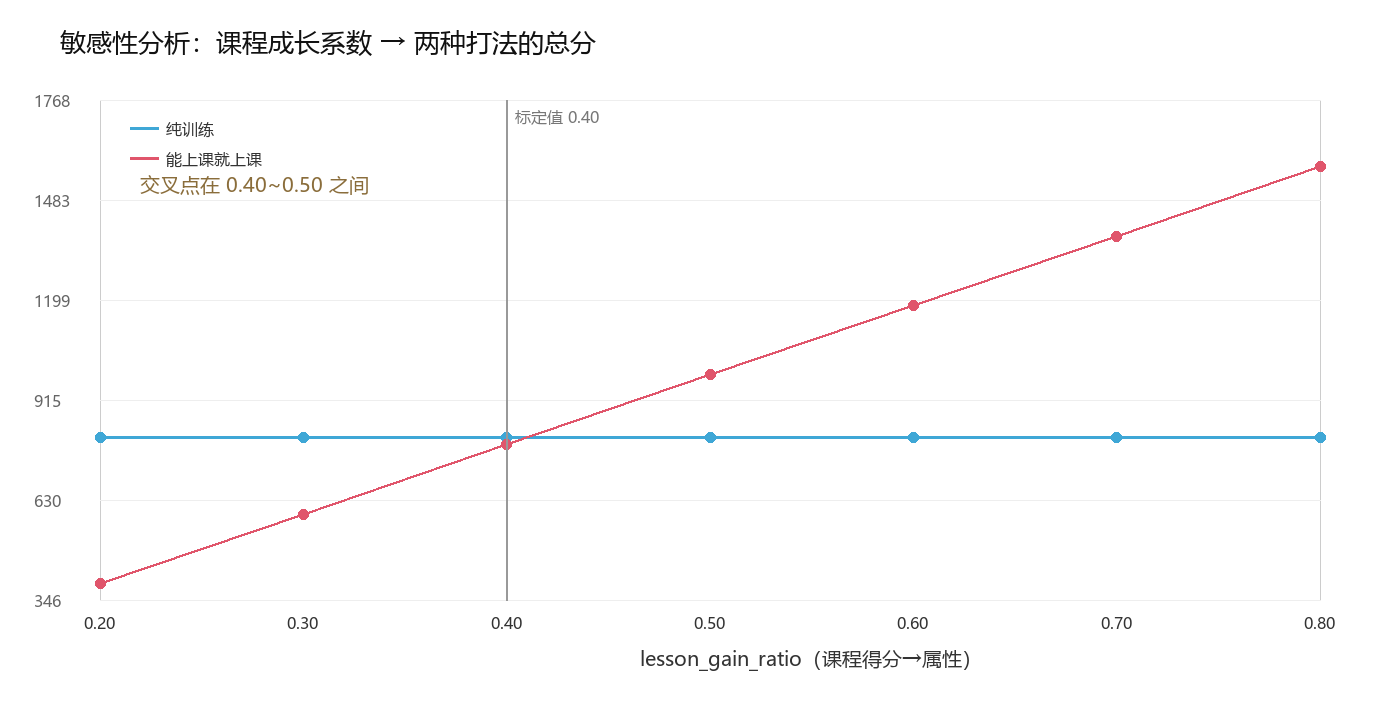
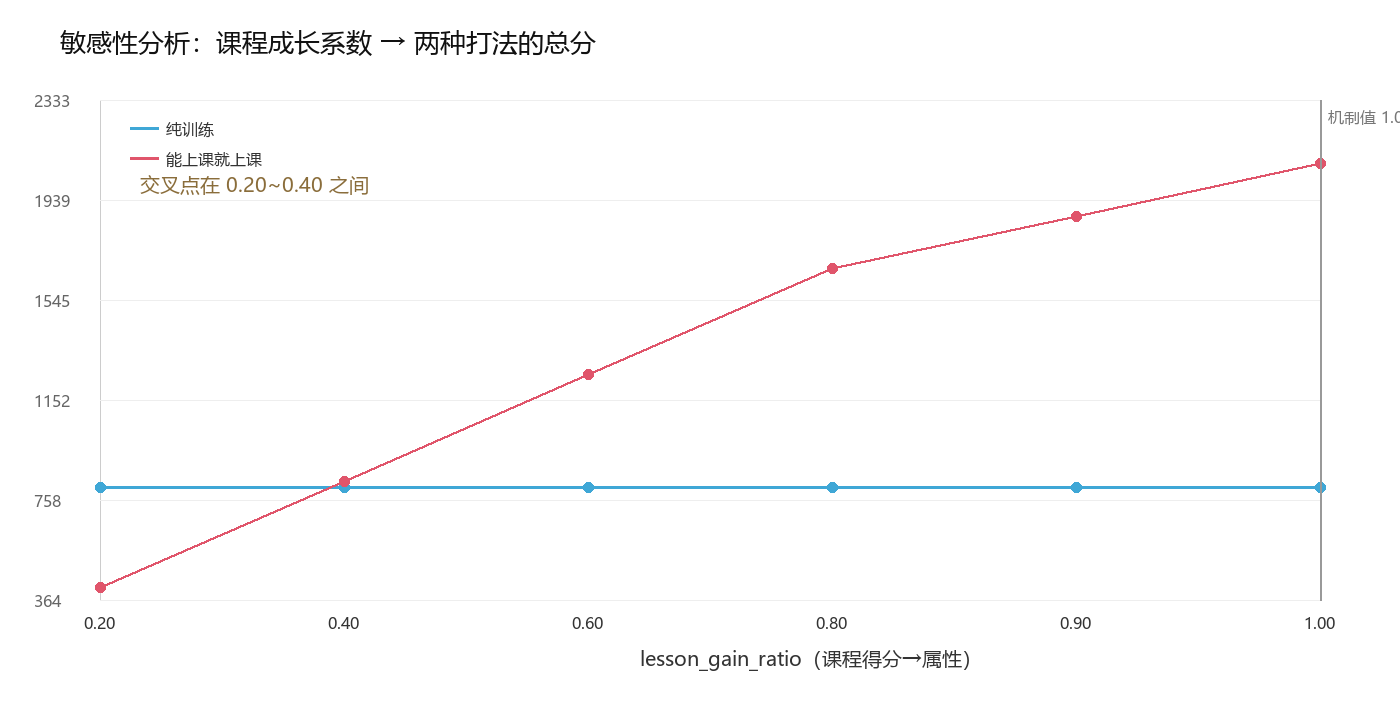
calib(sim): 成长系数改回机制值1.0（课程得分=属性）；美铃三假设对照证明B可达；敏感性图扩到1.0

diff --git a/src/gkagent/sim/produce.py b/src/gkagent/sim/produce.py
@@ -39,7 +39,7 @@ class ProduceConfig:
     lesson_targets: tuple[int, ...] = (100, 150, 200, 250, 300)
     support_levels: tuple[int, ...] = (40, 37, 29)  # 真机支援卡等级
     support_bonus: float = 1.35     # 训练收益倍率（由支援卡等级折算：1 + (40+37+29)/300）
-    lesson_gain_ratio: float = 0.4  # 课程得分 → 属性成长（按真机 W5=361 / W12=632 拟合）
+    lesson_gain_ratio: float = 1.0  # 课程得分 → 属性成长（机制上就是 1:1；0.4 是"弱牌组"补偿，见 SIMULATOR.md §9）
     reward_pick: str = "best"       # best=选最强卡 / random=随机 / none=不拿
     # 考试：6 人里进前 3 才算合格。基准分按真机标定：
     # 实拍期末 1st 589 / 2nd 406 / 3rd 203 / 4th 201 / 5th 195，我们 632 属性 = 6th（不合格）

diff --git a/scripts/sim_sensitivity.py b/scripts/sim_sensitivity.py
@@ -19,8 +19,8 @@ ROOT = Path(r"D:\Games\gakumas-agent")
 sys.path.insert(0, str(ROOT / "src"))
 sys.path.insert(0, str(ROOT / "scripts"))
 
-RATIOS = (0.20, 0.30, 0.40, 0.50, 0.60, 0.70, 0.80)
-CALIBRATED = 0.40
+RATIOS = (0.20, 0.40, 0.60, 0.80, 0.90, 1.00)
+CALIBRATED = 1.00
 
 VARIANTS = {
     "纯训练": {
@@ -118,7 +118,7 @@ def draw(rows: list[dict]) -> None:
     index = RATIOS.index(CALIBRATED)
     x = x0 + (x1 - x0) * index / (len(RATIOS) - 1)
     canvas.line([(x, y0), (x, y1)], fill="#999999", width=2)
-    canvas.text((x + 8, y0 + 6), "标定值 0.40", fill="#777777", font=small)
+    canvas.text((x + 8, y0 + 6), "机制值 1.00", fill="#777777", font=small)
 
     # 交叉点
     by_name = {name: {row["ratio"]: row["mean"] for row in rows if row["name"] == name} for name in VARIANTS}

diff --git a/docs/SIMULATOR.md b/docs/SIMULATOR.md
@@ -109,3 +109,19 @@ Terminal    = 回合用尽 或 体力不足 → 总分 vs 审查基准 → CLEAR
 
 **要解决**：真机每局记录三维（训练确认界面 `X/1000`），至少再拿 3 个中间点（W3/W8/W10），
 才能把两个系数同时定住；或者直接测量"一节课前后属性差 / 这节课得分"得到 ratio。
+
+
+## 9. 2026-11-15 校准修正：成长系数应为 1.0（三个假设）
+
+真机那局（美铃，三维 632，6 名，终试 180 → 评价点 1507 = E）可以同时被三种模型解释：
+
+| 假设 | 课程成长系数 | 牌组 | 课程均分 | 12 周总和 | 评价点 | 评价 |
+|---|---|---:|---:|---:|---:|---|
+| A | 1.0 | 弱（不拿奖励） | 89 | 745 | 3060 | C |
+| B（旧默认） | 0.4 | 强（拿最强） | 245 | 820 | 3274 | C |
+| **C（机制正确）** | **1.0** | **强（拿最强）** | **245** | **2056** | **6861** | **B** |
+
+- 游戏机制里「课程中的パラメータ上昇」就是属性增长，所以系数应当是 **1:1**；
+- 真机那局只有 632，是因为它**课程均分只有 60-180**（奖励选牌差、牌组弱），不是系数小；
+- 结论：**默认改成 1.0**，把"牌组强弱"作为变量——我们的奖励选牌已经从"按文本估"改成"按卡表选最强"，所以下一局课程均分有机会接近 245，评价点 ~6900 → **B**。
+- 敏感性图（`sim_sensitivity.py`）在 1.0 处：上课流 2083 vs 纯训练 806 —— 课程是绝对主力。
